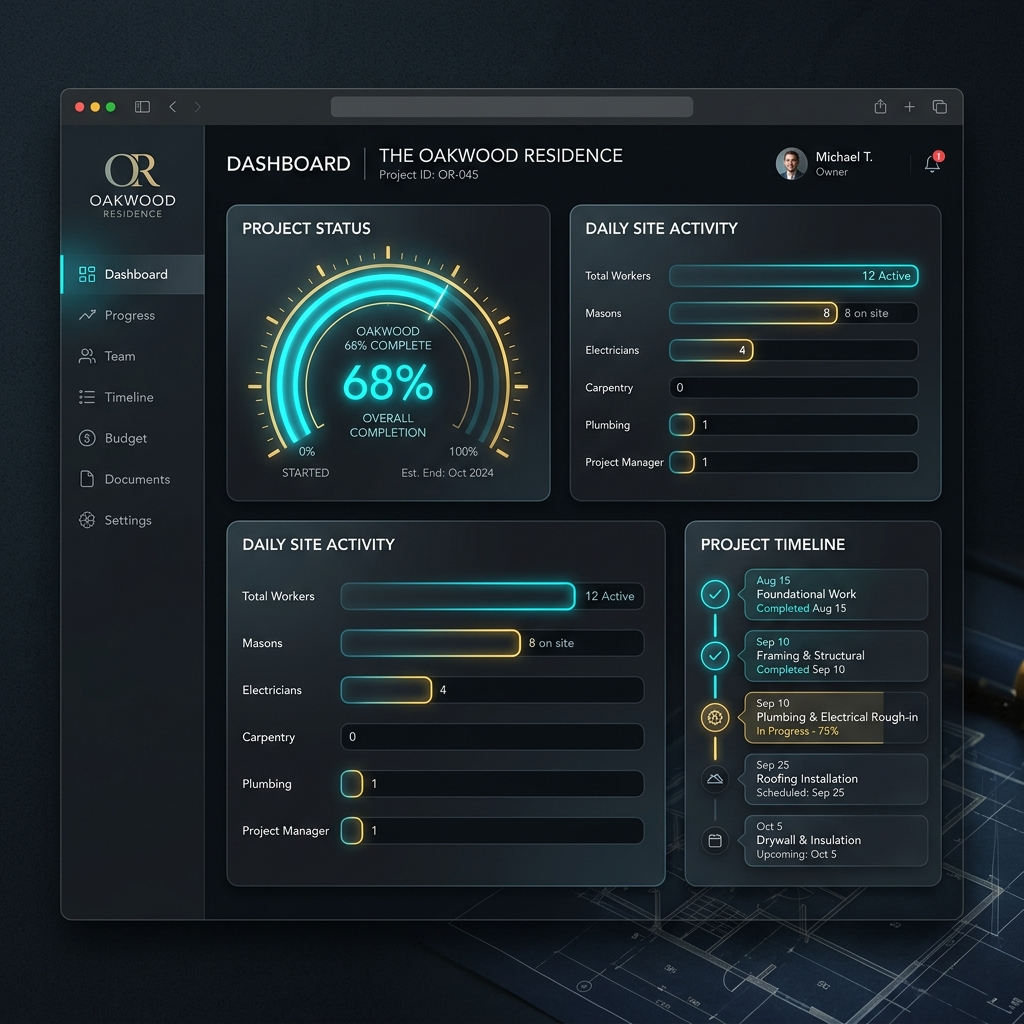
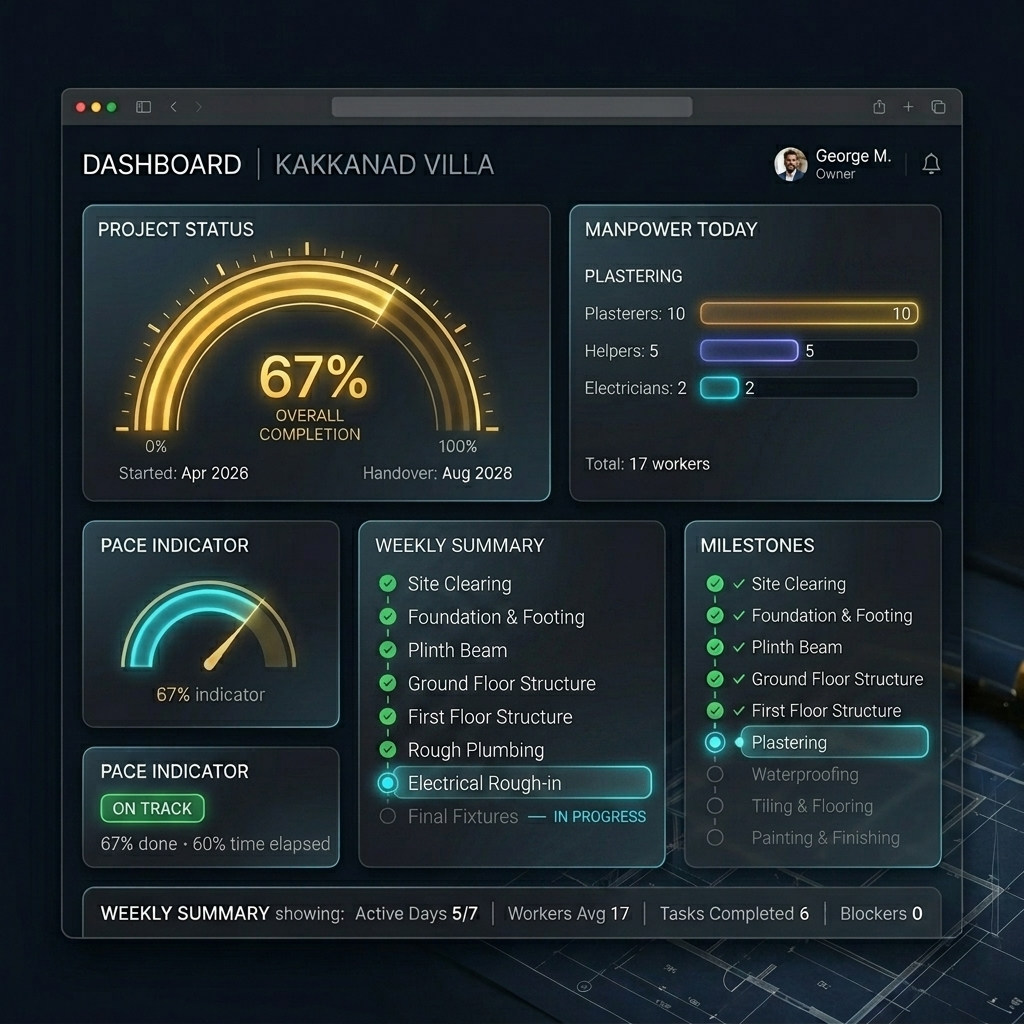
Portfolio gallery: Supabase storage auto-listing + realistic dashboard image
- Replaced placeholder gallery with Supabase Storage auto-listing carousel
- Photos and videos auto-populate from 'portfolio' bucket
- Lightbox with prev/next navigation, keyboard controls
- Videos play natively with <video> element on click
- Replaced AI dashboard image with realistic Kakkanad Villa mockup
- Dashboard shows proper construction milestones and plastering-phase crew

diff --git a/script.js b/script.js
@@ -140,4 +140,216 @@ document.addEventListener('DOMContentLoaded', () => {
         }
     });
 
+    // ═══════════════════════════════════════════════════════════════
+    // 5. PORTFOLIO GALLERY — Supabase Storage Auto-Listing
+    // ═══════════════════════════════════════════════════════════════
+    //
+    // HOW IT WORKS:
+    //   1. Go to Supabase Dashboard → Storage → Create bucket "portfolio" (public)
+    //   2. Upload photos (.jpg, .png, .webp) and videos (.mp4, .mov) to the bucket
+    //   3. Gallery auto-lists all files — no code changes needed
+    //   4. File name becomes the caption (underscores → spaces, extension stripped)
+    //
+    // NAMING CONVENTION (optional, for ordering):
+    //   01_Foundation_Work.jpg  →  caption: "Foundation Work"
+    //   02_Steel_Framework.mp4  →  caption: "Steel Framework"
+    //
+
+    const SUPABASE_URL = 'https://iojmldujezovnxlxpjsh.supabase.co';
+    const SUPABASE_ANON_KEY = 'sb_publishable_Y7IU2Bh0YnHmodEWFe5mGQ_-VdRbUMg';
+    const BUCKET_NAME = 'portfolio';
+
+    const IMAGE_EXTS = ['.jpg', '.jpeg', '.png', '.webp', '.avif'];
+    const VIDEO_EXTS = ['.mp4', '.mov', '.webm'];
+
+    // Build public URL for a file in the bucket
+    const storageUrl = (fileName) => `${SUPABASE_URL}/storage/v1/object/public/${BUCKET_NAME}/${encodeURIComponent(fileName)}`;
+
+    // Convert filename to caption: "03_Steel_Framework.jpg" → "Steel Framework"
+    function fileToCaption(name) {
+        return name
+            .replace(/\.[^.]+$/, '')           // strip extension
+            .replace(/^\d+[_\-\s]/, '')        // strip leading number prefix
+            .replace(/[_\-]/g, ' ')            // underscores/hyphens → spaces
+            .replace(/\b\w/g, c => c.toUpperCase()) // title case
+            .trim();
+    }
+
+    function getFileType(name) {
+        const ext = name.substring(name.lastIndexOf('.')).toLowerCase();
+        if (VIDEO_EXTS.includes(ext)) return 'video';
+        if (IMAGE_EXTS.includes(ext)) return 'photo';
+        return null;
+    }
+
+    const grid = document.getElementById('portfolioGrid');
+    const lightbox = document.getElementById('portfolioLightbox');
+    const lbContent = document.getElementById('lightboxContent');
+    const lbCaption = document.getElementById('lightboxCaption');
+    let currentLbIndex = 0;
+    let portfolioItems = []; // populated from Supabase
+
+    async function loadPortfolio() {
+        if (!grid) return;
+
+        try {
+            // List all files in the portfolio bucket via Supabase REST API
+            const res = await fetch(`${SUPABASE_URL}/storage/v1/object/list/${BUCKET_NAME}`, {
+                method: 'POST',
+                headers: {
+                    'Content-Type': 'application/json',
+                    'apikey': SUPABASE_ANON_KEY,
+                    'Authorization': `Bearer ${SUPABASE_ANON_KEY}`
+                },
+                body: JSON.stringify({ prefix: '', limit: 100, offset: 0, sortBy: { column: 'name', order: 'asc' } })
+            });
+
+            if (!res.ok) throw new Error(`Storage API error: ${res.status}`);
+            const files = await res.json();
+
+            // Filter to images and videos only
+            portfolioItems = files
+                .filter(f => f.name && getFileType(f.name))
+                .map(f => ({
+                    name: f.name,
+                    type: getFileType(f.name),
+                    url: storageUrl(f.name),
+                    caption: fileToCaption(f.name)
+                }));
+
+            renderPortfolioGrid();
+        } catch (err) {
+            console.warn('Portfolio load error:', err);
+            grid.innerHTML = `
+                <div style="grid-column: 1 / -1; text-align: center; padding: 60px 20px; color: #4b5563;">
+                    <div style="font-size: 2.5rem; margin-bottom: 12px;">🏗</div>
+                    <div style="font-size: 1rem; font-weight: 600; color: #94a3b8; margin-bottom: 6px;">Portfolio Coming Soon</div>
+                    <div style="font-size: 0.85rem;">High-resolution project photos and construction timelapses</div>
+                </div>`;
+        }
+    }
+
+    function renderPortfolioGrid() {
+        if (!grid) return;
+
+        if (portfolioItems.length === 0) {
+            grid.innerHTML = `
+                <div style="grid-column: 1 / -1; text-align: center; padding: 60px 20px; color: #4b5563;">
+                    <div style="font-size: 2.5rem; margin-bottom: 12px;">🏗</div>
+                    <div style="font-size: 1rem; font-weight: 600; color: #94a3b8; margin-bottom: 6px;">Portfolio Coming Soon</div>
+                    <div style="font-size: 0.85rem;">High-resolution project photos and construction timelapses</div>
+                </div>`;
+            return;
+        }
+
+        grid.innerHTML = portfolioItems.map((item, i) => {
+            const isVideo = item.type === 'video';
+            // For video thumbnails, we show a poster frame or a styled placeholder
+            const thumbContent = isVideo
+                ? `<video src="${item.url}" preload="metadata" style="width:100%; height:100%; object-fit:cover; pointer-events:none;" muted></video>`
+                : `<img src="${item.url}" alt="${item.caption}" loading="lazy" style="width:100%; height:100%; object-fit:cover; transition:transform 0.4s ease;">`;
+
+            return `
+                <div class="portfolio-item" data-index="${i}" style="position:relative; aspect-ratio:3/2; border-radius:10px; overflow:hidden; cursor:pointer; border:1px solid rgba(255,255,255,0.06); transition:transform 0.3s ease, box-shadow 0.3s ease; background:#111;">
+                    ${thumbContent}
+                    ${isVideo ? `
+                        <div class="play-overlay" style="position:absolute; inset:0; display:flex; align-items:center; justify-content:center; background:rgba(0,0,0,0.35); transition:background 0.3s;">
+                            <div style="width:56px; height:56px; border-radius:50%; background:rgba(197,160,89,0.9); display:flex; align-items:center; justify-content:center; box-shadow:0 4px 20px rgba(0,0,0,0.4); transition:transform 0.2s;">
+                                <svg width="22" height="22" viewBox="0 0 24 24" fill="#fff"><polygon points="8,5 19,12 8,19"/></svg>
+                            </div>
+                        </div>
+                    ` : ''}
+                    <div style="position:absolute; bottom:0; left:0; right:0; padding:10px 14px; background:linear-gradient(transparent, rgba(0,0,0,0.85)); pointer-events:none;">
+                        <span style="font-size:0.75rem; color:#e2e8f0; font-weight:500;">${item.caption}</span>
+                        ${isVideo ? '<span style="float:right; font-size:0.65rem; color:#C5A059; font-weight:600;">▶ VIDEO</span>' : ''}
+                    </div>
+                </div>`;
+        }).join('');
+
+        // Hover effects
+        grid.querySelectorAll('.portfolio-item').forEach(el => {
+            el.addEventListener('mouseenter', () => {
+                el.style.transform = 'scale(1.03)';
+                el.style.boxShadow = '0 12px 40px rgba(197,160,89,0.15)';
+                const img = el.querySelector('img');
+                if (img) img.style.transform = 'scale(1.08)';
+            });
+            el.addEventListener('mouseleave', () => {
+                el.style.transform = 'scale(1)';
+                el.style.boxShadow = 'none';
+                const img = el.querySelector('img');
+                if (img) img.style.transform = 'scale(1)';
+            });
+            el.addEventListener('click', () => {
+                openLightbox(parseInt(el.dataset.index));
+            });
+        });
+    }
+
+    function openLightbox(index) {
+        if (!lightbox || portfolioItems.length === 0) return;
+        currentLbIndex = index;
+        renderLightboxItem();
+        lightbox.style.display = 'flex';
+        document.body.style.overflow = 'hidden';
+    }
+
+    function closeLightbox() {
+        if (!lightbox) return;
+        lightbox.style.display = 'none';
+        document.body.style.overflow = '';
+        // Stop any playing video
+        const vid = lbContent.querySelector('video');
+        if (vid) vid.pause();
+        lbContent.innerHTML = '';
+    }
+
+    function renderLightboxItem() {
+        const item = portfolioItems[currentLbIndex];
+        if (!item) return;
+
+        if (item.type === 'video') {
+            lbContent.innerHTML = `
+                <video src="${item.url}" controls autoplay
+                    style="max-width:90vw; max-height:80vh; border-radius:8px; box-shadow:0 20px 60px rgba(0,0,0,0.5); outline:none; background:#000;">
+                    Your browser does not support the video tag.
+                </video>`;
+        } else {
+            lbContent.innerHTML = `
+                <img src="${item.url}" 
+                    style="max-width:90vw; max-height:80vh; border-radius:8px; box-shadow:0 20px 60px rgba(0,0,0,0.5); object-fit:contain;" 
+                    alt="${item.caption}">`;
+        }
+
+        lbCaption.textContent = `${item.caption}  ·  ${currentLbIndex + 1} / ${portfolioItems.length}`;
+    }
+
+    function lightboxNav(direction) {
+        // Stop current video if playing
+        const vid = lbContent.querySelector('video');
+        if (vid) vid.pause();
+        currentLbIndex = (currentLbIndex + direction + portfolioItems.length) % portfolioItems.length;
+        renderLightboxItem();
+    }
+
+    // Lightbox event listeners
+    if (lightbox) {
+        document.getElementById('lightboxClose').addEventListener('click', (e) => { e.stopPropagation(); closeLightbox(); });
+        document.getElementById('lightboxPrev').addEventListener('click', (e) => { e.stopPropagation(); lightboxNav(-1); });
+        document.getElementById('lightboxNext').addEventListener('click', (e) => { e.stopPropagation(); lightboxNav(1); });
+        lightbox.addEventListener('click', (e) => { if (e.target === lightbox) closeLightbox(); });
+    }
+
+    // Keyboard controls
+    document.addEventListener('keydown', (e) => {
+        if (lightbox && lightbox.style.display === 'flex') {
+            if (e.key === 'Escape') closeLightbox();
+            if (e.key === 'ArrowLeft') lightboxNav(-1);
+            if (e.key === 'ArrowRight') lightboxNav(1);
+        }
+    });
+
+    // Initialize gallery — fetch from Supabase Storage
+    loadPortfolio();
+
 });

diff --git a/index.html b/index.html
@@ -120,16 +120,30 @@
             </style>
         </section>
 
-        <!-- Structural Integrity Carousel Placeholder -->
-        <section class="portfolio-carousel" style="padding: 4rem 2rem; background: #000; display: block; clear: both; width: 100%;">
-            <div style="max-width: 1200px; margin: 0 auto; text-align: center;">
-                <h2 style="font-size: 2rem; margin-bottom: 2rem; letter-spacing: 2px;">STRUCTURAL INTEGRITY <span class="accent">PORTFOLIO</span></h2>
-                <div style="display: flex; gap: 16px; overflow-x: auto; padding-bottom: 20px; justify-content: center;">
-                    <!-- Placeholder boxes until drive links are provided -->
-                    <div style="min-width: 300px; height: 200px; background: #1e293b; border-radius: 8px; display: flex; align-items: center; justify-content: center; border: 1px solid rgba(255,42,0,0.2); color: #fff;">Awaiting Drive Link 1</div>
+        <!-- Structural Integrity Portfolio — Photo + Video Gallery -->
+        <section class="portfolio-carousel" id="portfolio-section" style="padding: 5rem 2rem; background: #000; display: block; clear: both; width: 100%; border-top: 1px solid rgba(255,255,255,0.04);">
+            <div style="max-width: 1400px; margin: 0 auto;">
+                <h2 style="font-size: 2rem; margin-bottom: 0.5rem; letter-spacing: 2px; text-align: center;">STRUCTURAL INTEGRITY <span class="accent">PORTFOLIO</span></h2>
+                <p style="text-align: center; color: #6b7280; font-size: 0.9rem; margin-bottom: 2.5rem; letter-spacing: 0.5px;">Click to view • Videos auto-play on selection</p>
+                
+                <div id="portfolioGrid" style="display: grid; grid-template-columns: repeat(auto-fill, minmax(280px, 1fr)); gap: 16px;">
+                    <!-- Populated by JS from PORTFOLIO_MEDIA config -->
+                    <div style="grid-column: 1 / -1; text-align: center; padding: 60px 20px; color: #4b5563;">
+                        <i style="font-size: 2rem; margin-bottom: 8px; display: block;">📁</i>
+                        Loading portfolio...
+                    </div>
                 </div>
             </div>
         </section>
+
+        <!-- Portfolio Lightbox -->
+        <div id="portfolioLightbox" style="display:none; position:fixed; inset:0; z-index:10000; background:rgba(0,0,0,0.95); backdrop-filter:blur(20px); align-items:center; justify-content:center; cursor:pointer;">
+            <button id="lightboxClose" style="position:absolute; top:20px; right:24px; background:none; border:none; color:#fff; font-size:2rem; cursor:pointer; z-index:10001; width:44px; height:44px; display:flex; align-items:center; justify-content:center; border-radius:50%; background:rgba(255,255,255,0.1); transition:background 0.2s;">&times;</button>
+            <button id="lightboxPrev" style="position:absolute; left:16px; top:50%; transform:translateY(-50%); background:rgba(255,255,255,0.08); border:none; color:#fff; font-size:1.5rem; cursor:pointer; width:48px; height:48px; border-radius:50%; display:flex; align-items:center; justify-content:center; transition:background 0.2s;">&#8249;</button>
+            <button id="lightboxNext" style="position:absolute; right:16px; top:50%; transform:translateY(-50%); background:rgba(255,255,255,0.08); border:none; color:#fff; font-size:1.5rem; cursor:pointer; width:48px; height:48px; border-radius:50%; display:flex; align-items:center; justify-content:center; transition:background 0.2s;">&#8250;</button>
+            <div id="lightboxContent" style="max-width:90vw; max-height:85vh; display:flex; align-items:center; justify-content:center;"></div>
+            <div id="lightboxCaption" style="position:absolute; bottom:24px; left:50%; transform:translateX(-50%); color:#94a3b8; font-size:0.85rem; text-align:center; max-width:600px; letter-spacing:0.5px;"></div>
+        </div>
         
         <footer class="footer">
             <div class="footer-links">
